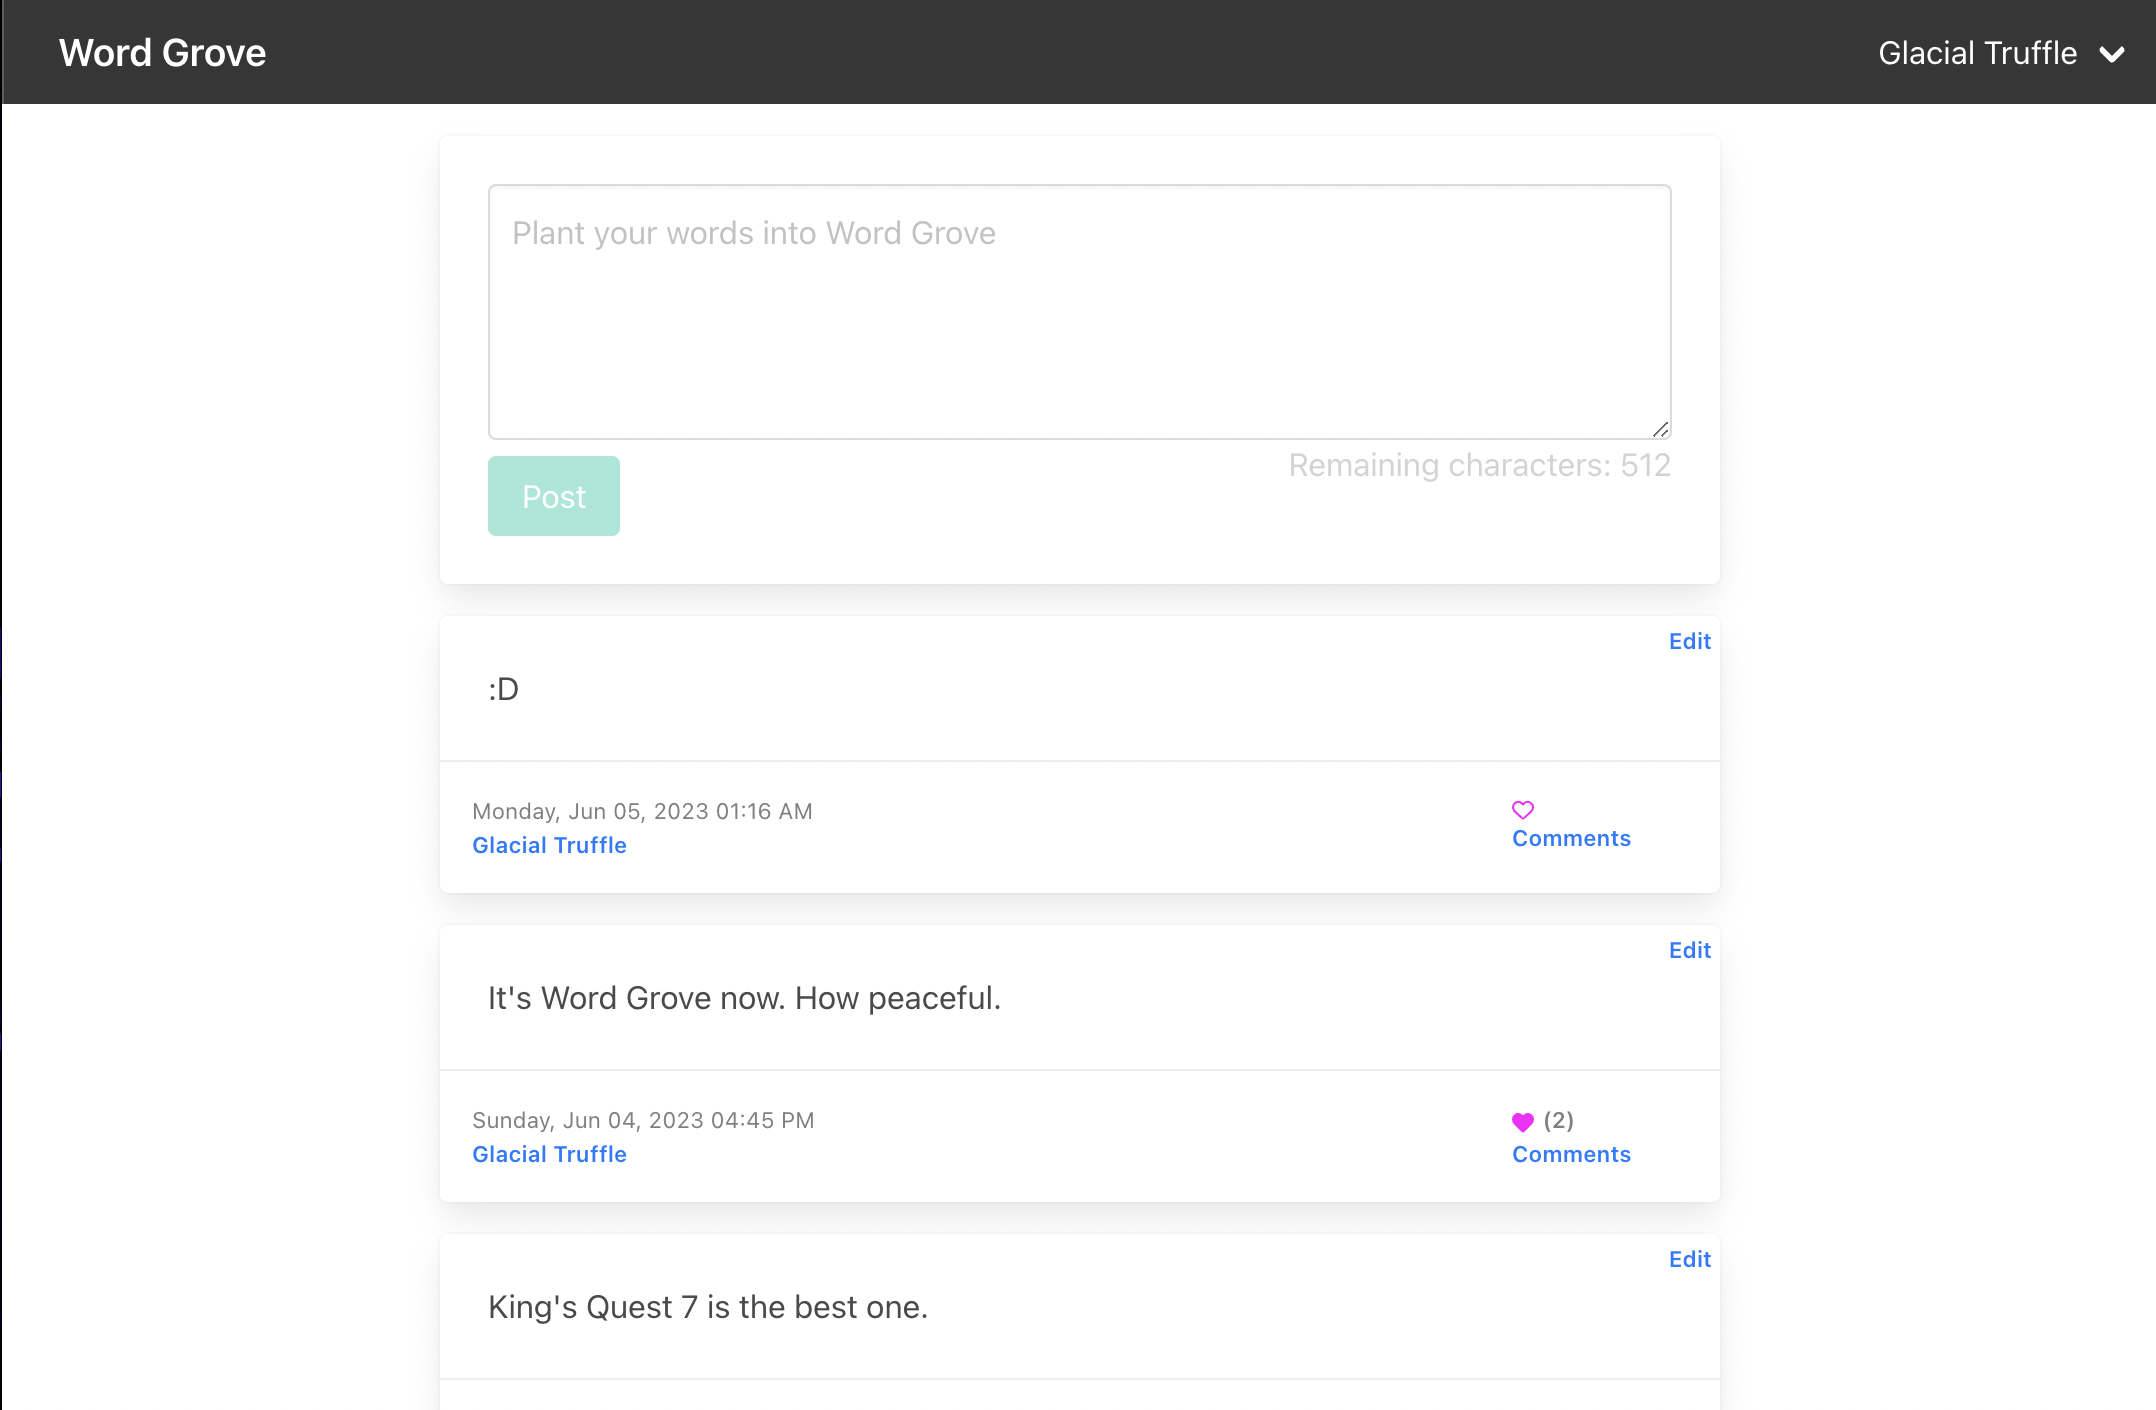
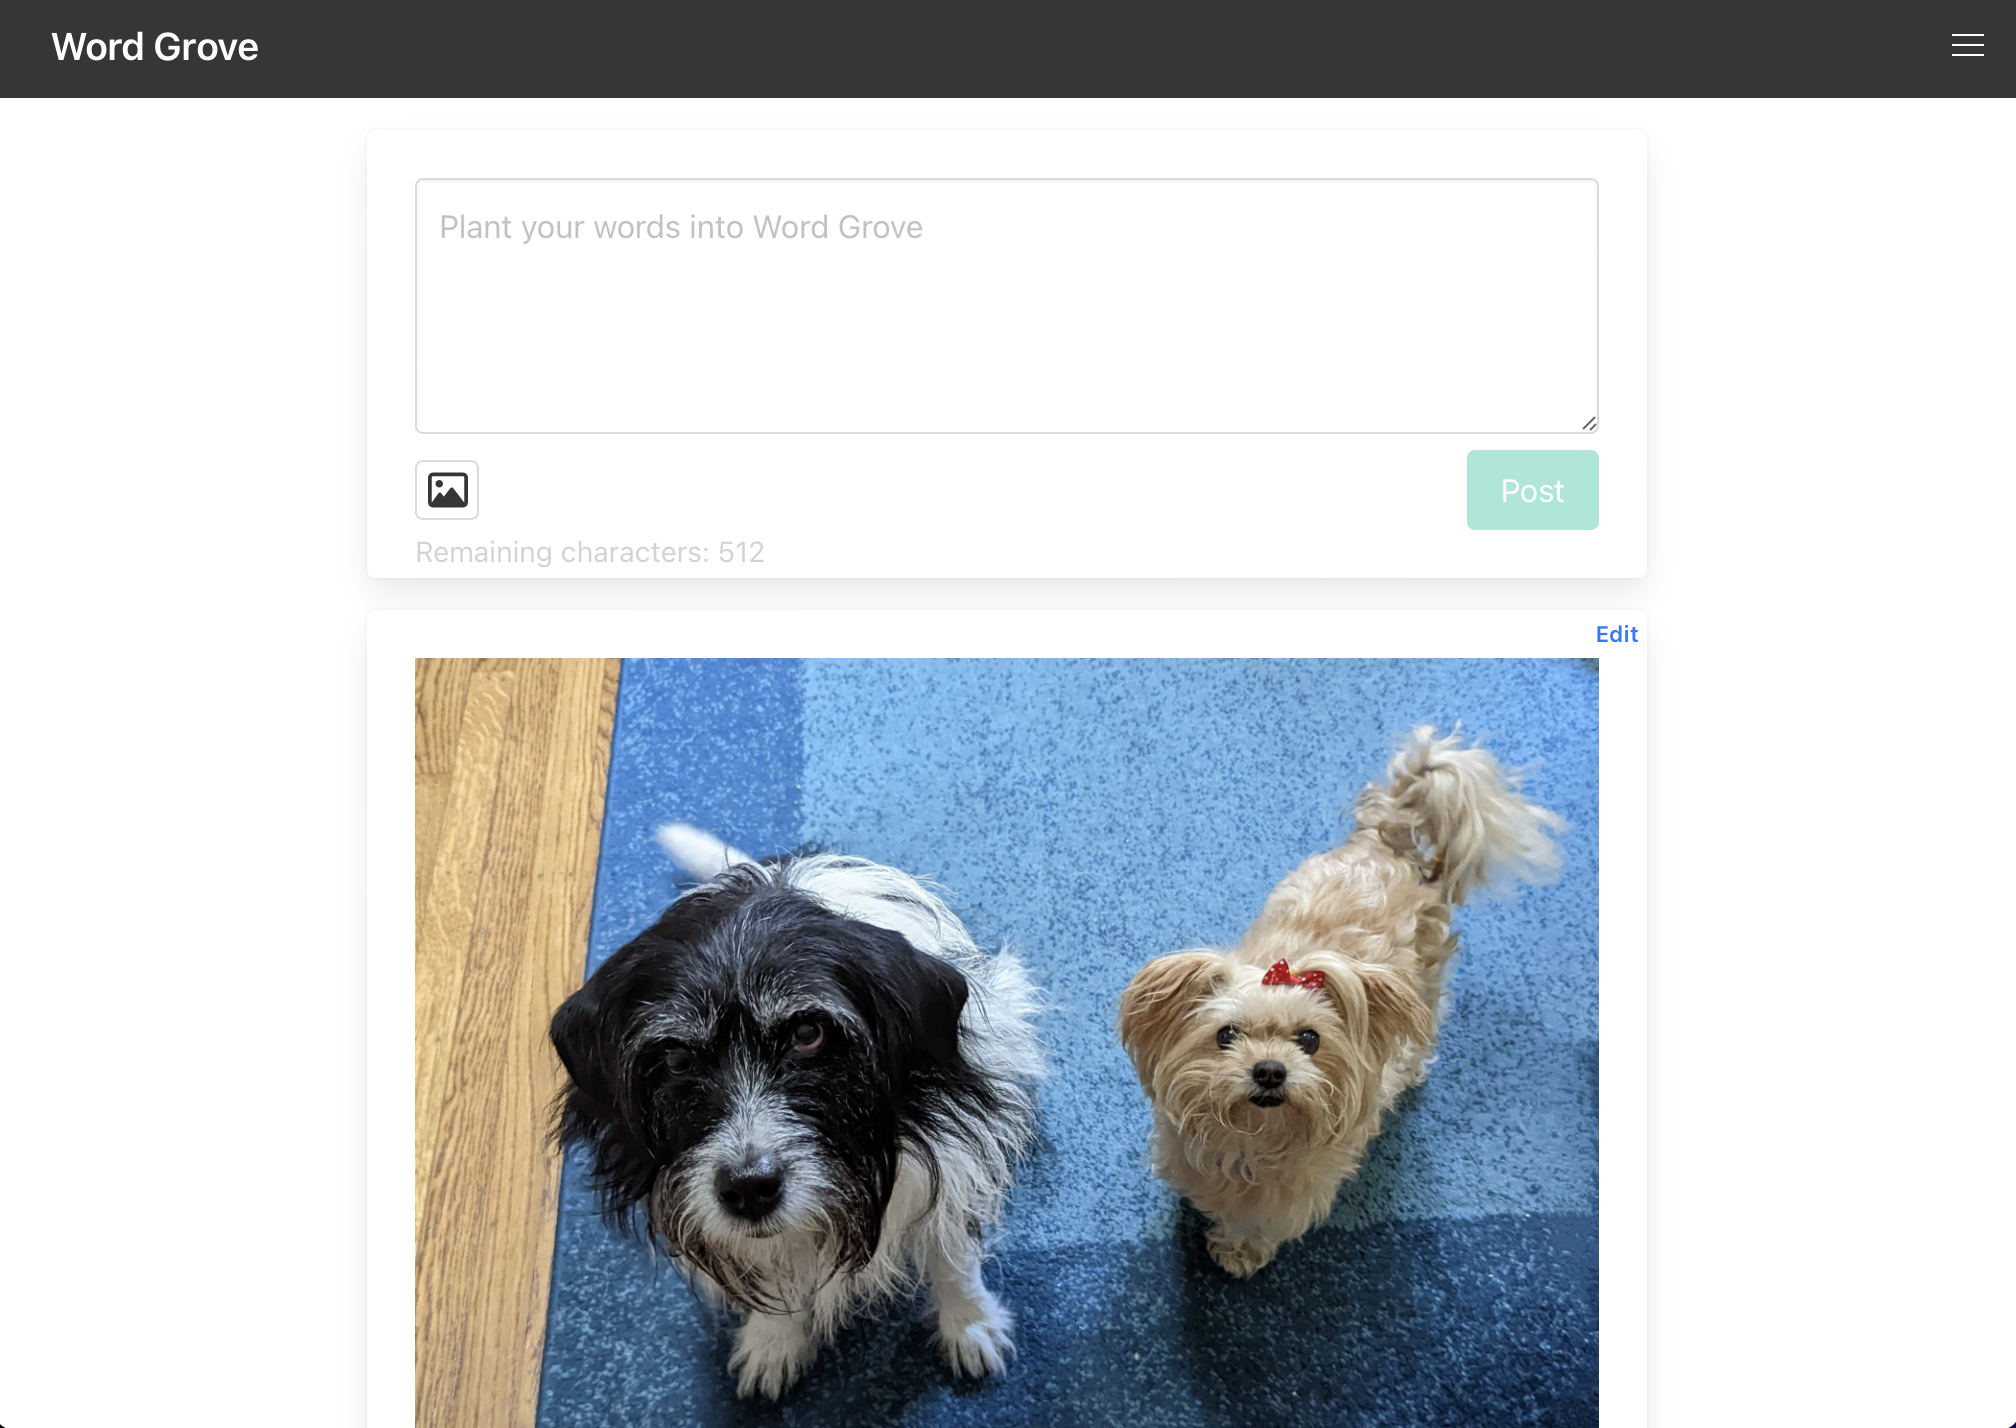
New image for Word Grove, and some text touch-ups

diff --git a/src/App.js b/src/App.js
@@ -52,19 +52,19 @@ const App = props => {
               url="https://alexanderdouglasbrown.github.io/Cabin-Scene/"
               giturl="https://github.com/alexanderdouglasbrown/Cabin-Scene"
             >
-              A 3D scene created in WebGL2, with WebAssembly (through Rust) for math functions
+              A 3D scene created in WebGL2, with WebAssembly (through Rust) for math functions.
             </Project>
             <Project
               showLightboxCallback={showLightbox}
               title="Word Grove"
               image="images/word-grove.png"
               video="videos/word-grove.mp4"
-              description="A relaxing place to enjoy words on the internet"
+              description="A relaxing place to enjoy words and images on the internet"
               url="https://wordgrove.net"
               giturl="https://github.com/alexanderdouglasbrown/Word-Grove"
               serverurl="https://github.com/alexanderdouglasbrown/Word-Grove-API"
             >
-              A website for posting your thoughts, links, whatever, and leaving comments. Built with React, ASP .NET Core, and PostgreSQL.
+              A website for posting your thoughts, dogs, links, whatever, and leaving comments. Built with React, ASP .NET Core, and PostgreSQL.
             </Project>
             <Project
               showLightboxCallback={showLightbox}
